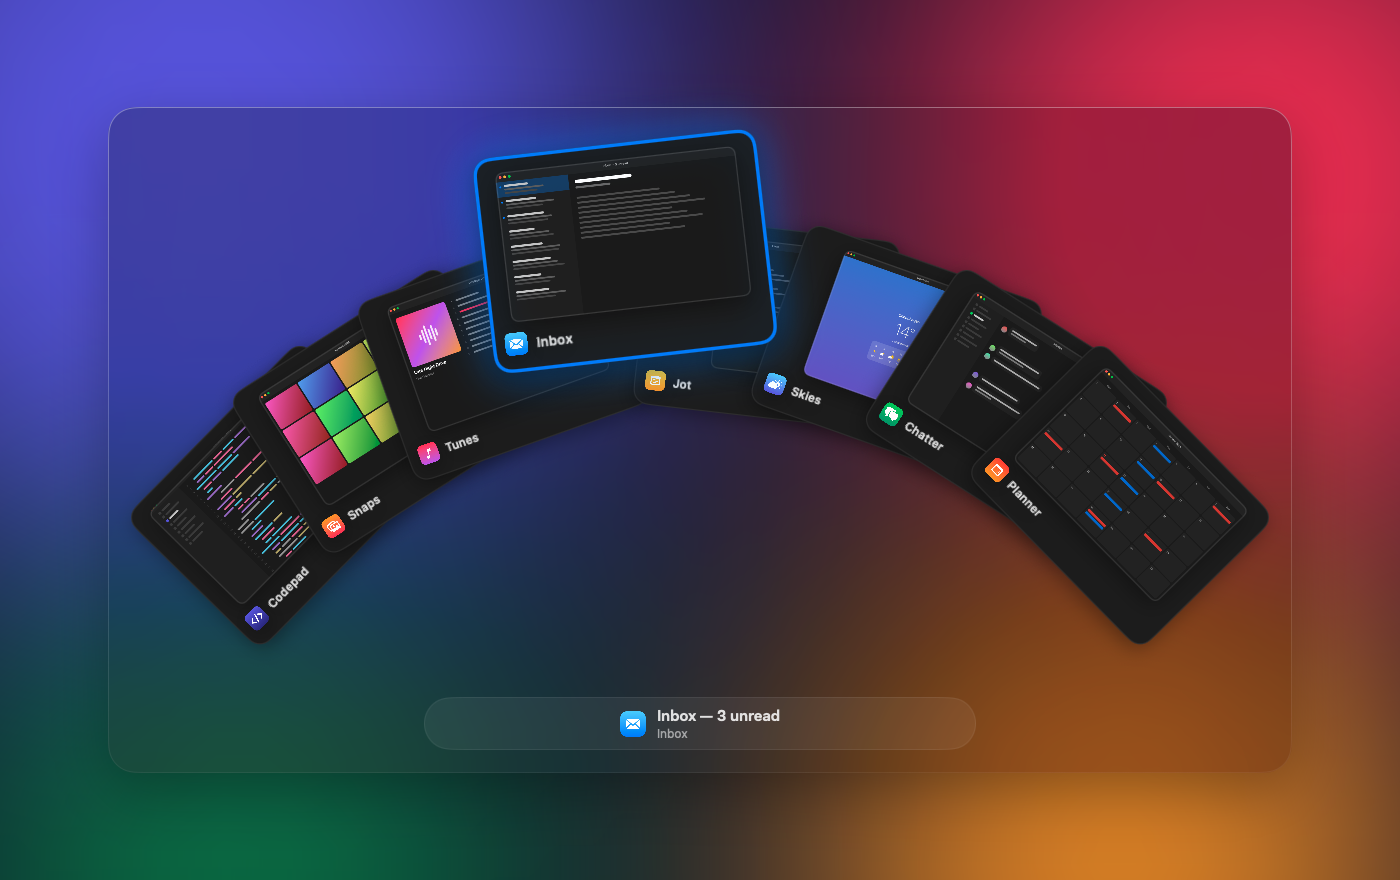
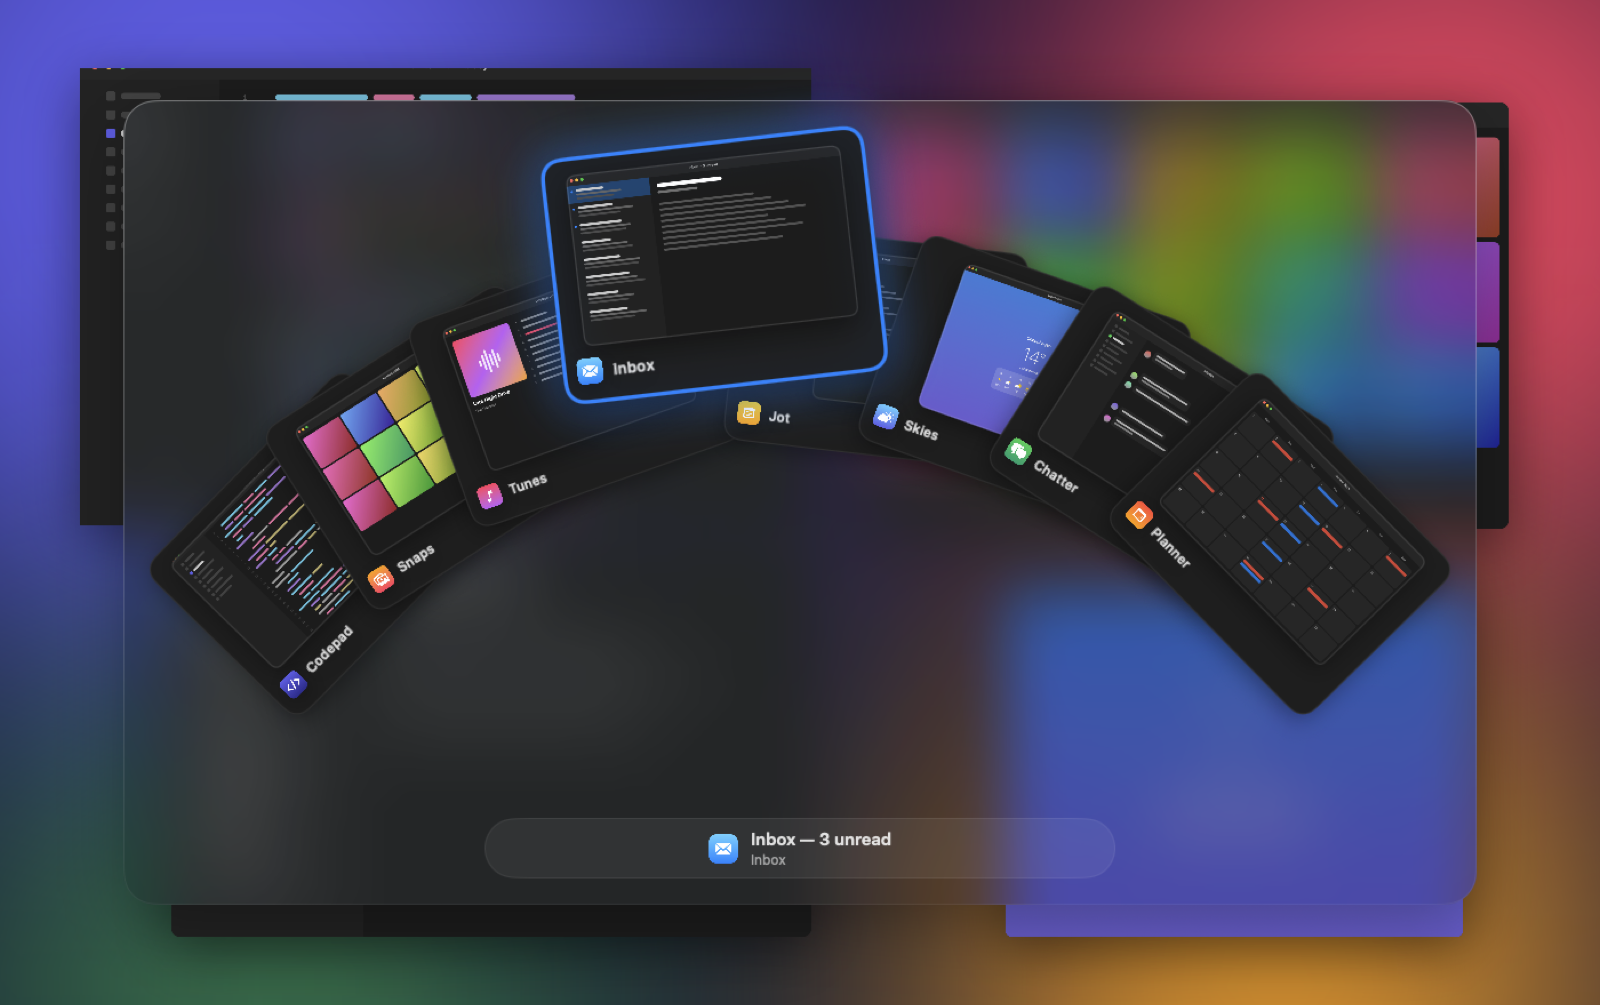
Refresh screenshots and show the window highlight in the README

diff --git a/README.md b/README.md
@@ -41,11 +41,17 @@ Six ways to lay out your windows. Pick one in Settings → Layout.
 | <img src="assets/deck.png" alt="Deck layout" width="420"><br>**Deck**: windows fanned out like a hand of cards; the selected one lifts up | <img src="assets/orbit.png" alt="Orbit layout" width="420"><br>**Orbit**: windows circle a large preview of the selected one |
 | <img src="assets/spotlight.png" alt="Spotlight layout" width="420"><br>**Spotlight**: one huge preview with a small strip of the rest | <img src="assets/timeMachine.png" alt="Time Machine layout" width="420"><br>**Time Machine**: windows stacked into the distance over a starfield |
 
+### See where you're going
+
+While you tab, the selected window's real spot on screen stays bright and gets an accent outline, so you know exactly which window you'll land on. Turn it off in Settings → Layout.
+
+<img src="assets/highlight.png" alt="The switcher open over a dimmed desktop, with the selected window's real position outlined in blue" width="860">
+
 The screenshots use made-up apps. Run `.build/release/Tabby --demo -layout deck` to see the same demo.
 
 ## Settings
 
-- **Layout:** one of the six above, plus size, animation speed and window titles
+- **Layout:** one of the six above, plus size, animation speed, window titles and the on-screen highlight
 - **Appearance:** light, dark or system; glass, solid or frameless surface; accent colour; dim the screen behind
 - **Shortcut:** ⌥Tab by default. Click it in Settings and press a new one.
 

diff --git a/CHANGELOG.md b/CHANGELOG.md
@@ -1,5 +1,9 @@
 # Changelog
 
+## Unreleased
+
+- The selected window's real position on screen is outlined and left undimmed while you tab. Turn it off in Settings → Layout.
+
 ## 0.1.0
 
 The first release.
